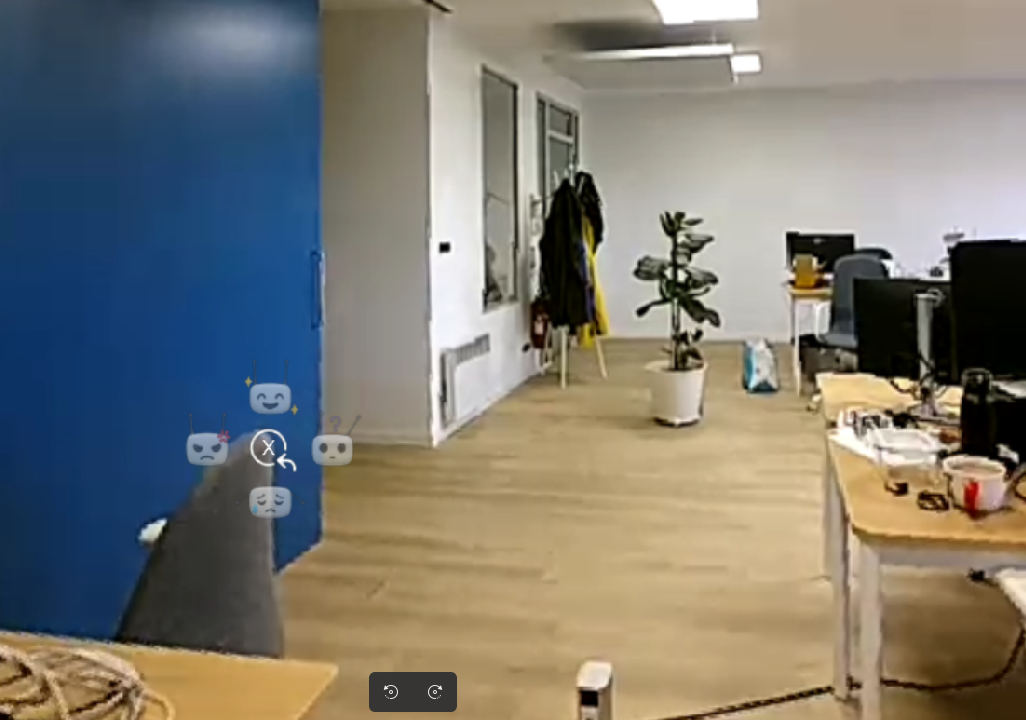
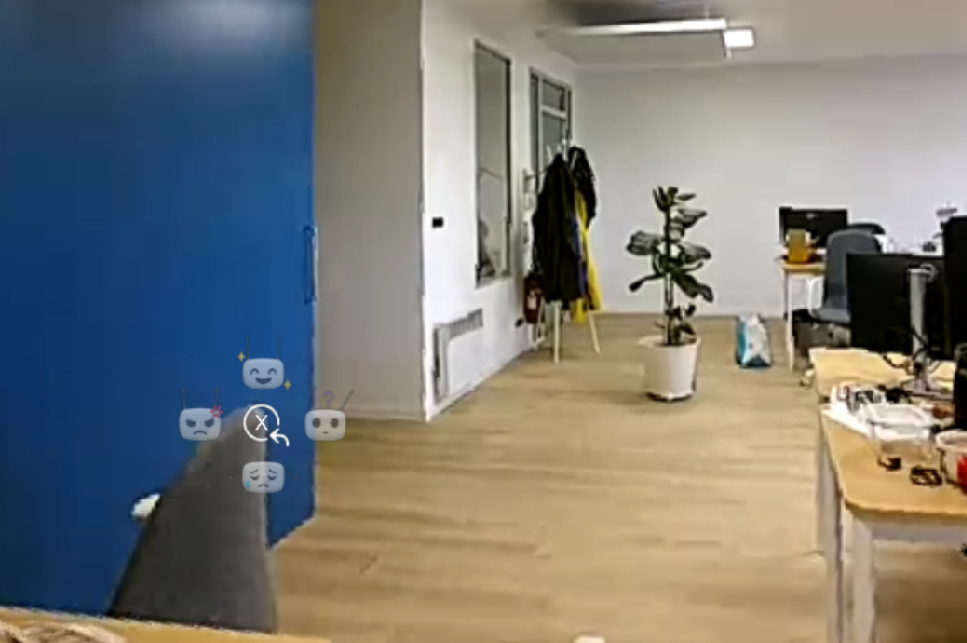
Add modifications post review.

diff --git a/content/teleoperation/using-application/step-by-step.md b/content/teleoperation/using-application/step-by-step.md
@@ -77,7 +77,7 @@ The motors are automatically turned into compliant mode when quitting the mirror
 
 8. When you are ready, **face the mirror completely** and click on "Ready". The position of the actual robot appears in a semi-transparent green color. This may be useful when you've left the robot in a certain position that you would like to keep when entering the teleoperation. Hold (A) to start the teleoperation.
 
-{{< warning icon="🔴" text="If the blue avatar of the robot <b> is significantly different </b> from the current position of your robot, <b>DO NOT START TELEOPERATION</b>! <br><b>Recalibrate</b> by pressing the emergency stop button, returning the joints to a neutral position and releasing the emergency button." >}}
+{{< alert icon="🚨" text="If the blue avatar of the robot <b> is significantly different </b> from the current position of your robot, <b>the teleoperation won't start</b>. That means that the calibration went wrong. <br><b>Recalibrate</b> by pressing the emergency stop button, returning the joints to a neutral position and releasing the emergency button." >}}
 <br>
 
 {{< img "images/vr/use-teleop/mirror-ready.png" 600x "Start teleoperation">}}  </br>
@@ -100,7 +100,7 @@ It can express four distinct emotions using its antennae: happy, angry, sad, and
 
 To trigger an emotion during teleoperation:
 1. Press the **X button** on your controller.
-2. Use the joystick to select the emotion you want.
+2. Use the left joystick to select the emotion you want.
 
 {{< img "images/vr/use-teleop/emotions-panel.png" 600x "Emotions panel">}}
 

diff --git a/content/developing-with-reachy-2/basics/4-use-arm-kinematics.md b/content/developing-with-reachy-2/basics/4-use-arm-kinematics.md
@@ -106,13 +106,14 @@ from reachy2_sdk import ReachySDK
 
 reachy = ReachySDK(host='10.0.0.201')  # Replace with the actual IP
 reachy.turn_on()
-reachy.goto_posture() # Set your Reachy in a default posture
+reachy.goto_posture(wait=True) # Set your Reachy in a default posture
 
 reachy.r_arm.forward_kinematics()
->>> array([[ 0.985, -0.168, -0.045,  0.03 ],
-       [ 0.174,  0.951,  0.255, -0.368],
-       [ 0.   , -0.259,  0.966, -0.638],
+>>> array([[ 1.   ,  0.001, -0.015,  0.01 ],
+       [ 0.001,  0.996,  0.086, -0.257],
+       [ 0.015, -0.086,  0.996, -0.657],
        [ 0.   ,  0.   ,  0.   ,  1.   ]])
+
 
 ```
 
@@ -154,10 +155,10 @@ You can also compute the pose for a given joints position. To do that, just pass
 For example, we can compute the forward kinematics for the right-angle position we defined earlier.
 
 ```python
-reachy.r_arm.forward_kinematics(right_angle_position)
->>> array([[-0.045, -0.168, -0.985,  0.387],
-       [ 0.255,  0.951, -0.174, -0.205],
-       [ 0.966, -0.259, -0.   , -0.27 ],
+reachy.r_arm.forward_kinematics(right_angled_position)
+>>> array([[-0.015,  0.001, -1.   ,  0.384],
+       [ 0.086,  0.996, -0.001, -0.224],
+       [ 0.996, -0.086, -0.015, -0.273],
        [ 0.   ,  0.   ,  0.   ,  1.   ]])
 ```
 

diff --git a/content/getting-started/setup-reachy2/start-reachy2.md b/content/getting-started/setup-reachy2/start-reachy2.md
@@ -26,16 +26,16 @@ Press the mobile base button (next to the mobile base’s LCD screen).
 
 ## B) Calibrate Reachy
 
-{{< img-center "/gifs/getting-started/setup-reachy2/start-reachy2/Reachy2_getting-started-3-B_Calibrate-Reachy_864x864.gif" 300x "Calibrate Reachy" >}}
-
-<br />
-
 
 Make sure Reachy is in the correct position, with its head straight, arms at its sides, and wrists straight (as shown in the photo).
 
 {{< img-center "/images/getting-started/setup-reachy2/start-reachy2/straight_posture.jpg" 200x "Reachy straight posture" >}} 
 
+<br />
 Then press and turn the emergency stop button clockwise to raise it. The automatic calibration process will start.
+
+{{< img-center "/gifs/getting-started/setup-reachy2/start-reachy2/Reachy2_getting-started-3-B_Calibrate-Reachy_864x864.gif" 300x "Calibrate Reachy" >}}
+
 
 {{< alert icon="🤖" text="The robot is going to move slightly during the calibration process. Do not touch the robot, and make sure the arms do not encounter any obstacles (tripod included) during its movements." >}}
 

diff --git a/content/developing-with-reachy-2/basics/5-control-head.md b/content/developing-with-reachy-2/basics/5-control-head.md
@@ -42,6 +42,8 @@ from reachy2_sdk import ReachySDK
 
 reachy = ReachySDK(host='10.0.0.201')  # Replace with the actual IP
 
+reachy.head.turn_on()  # Turn on only the head, making neck and both antennas stiff
+
 reachy.head
 >>> <Head on=True actuators=
 	neck: <Orbita3d on=True joints=
@@ -54,9 +56,6 @@ reachy.head
 >
 	r_antenna: <Antenna on=True joints=
 	<DynamixelMotor on=True present_position=0.0 goal_position=0.0 >
-
-
-reachy.head.turn_on()  # Turn on only the head, making neck and both antennas stiff
 ```
 
 You could, of course, turn on the whole robot by calling `reachy.turn_on()` directly.

diff --git a/content/help/debug/debug-checklist.md b/content/help/debug/debug-checklist.md
@@ -28,6 +28,10 @@ To do so:
 1. Suspend your current use of the robot
 2. Press the **emergency stop** button
 3. Make sure to put the arms and head in a **suitable position** before restarting the motors
+
+{{< img-center "/images/getting-started/setup-reachy2/start-reachy2/straight_posture.jpg" 300x "Reachy straight posture" >}} 
+
+
 4. Press and turn clockwise the **emergency stop** button to raise it
 5. Go to the **dashboard** and click on *Restart* for `reachy2-core` then `webrtc`
 

diff --git a/content/getting-started/dashboard/discover.md b/content/getting-started/dashboard/discover.md
@@ -37,7 +37,7 @@ It provides an overview of the robot's state and allows quick access to features
 
 What does the dashboard provide?
 
-* **Access the robot's state** - **Reachy control page**</br> 
+* **Access the robot's state** - **Robot page**</br> 
 Get robot's info, state of the joints, even send posture command. 
 
 
